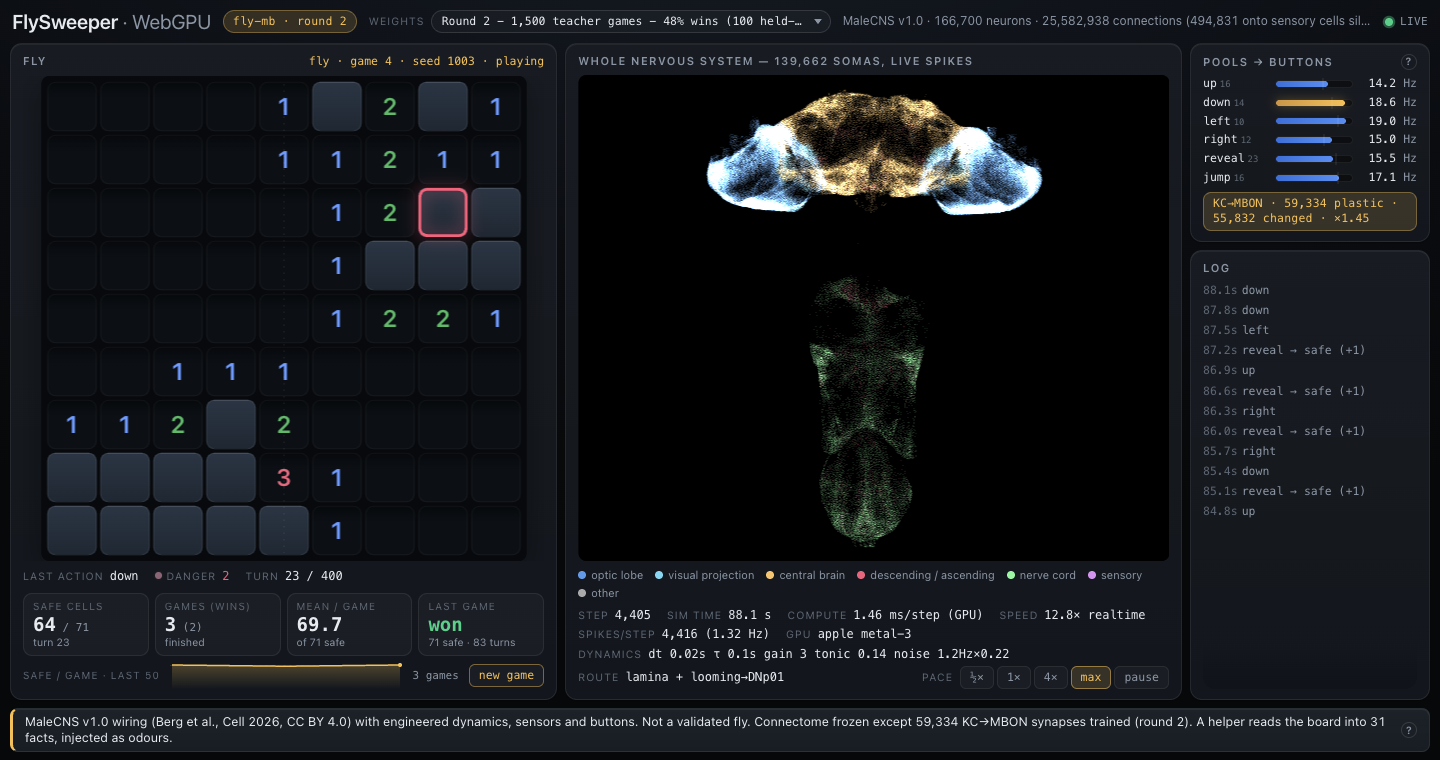
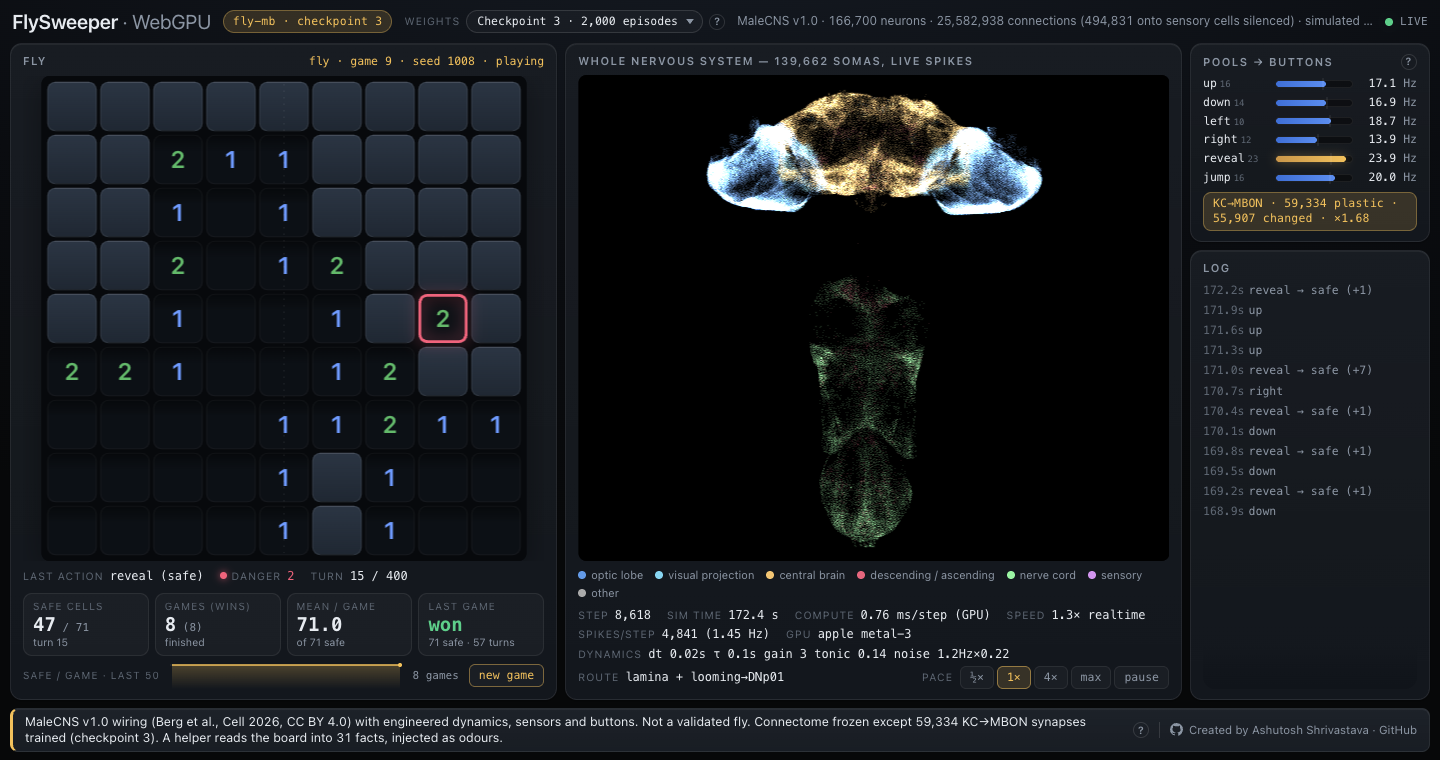
README: real checkpoint-3 screenshot (8/8 wins), checkpoint wording for the selector

diff --git a/README.md b/README.md
@@ -29,8 +29,9 @@ and the mushroom body learns which of six actions each set of facts calls for.
   in two commands (see [Quickstart](#quickstart)) — [`web/`](web/)
   ([how it works and how it was verified](web/README.md)). Needs Chrome 113+ or Edge (WebGPU on
   by default); loads 205 MB of wiring once, then cached. The trained weight sets ship with the page
-  (`web/weights/`) and a **weights** selector in the header switches between round 1, round 2 and
-  round 3 — **round 3 is the default**; `?weights=frozen` runs the untrained connectome. A session
+  (`web/weights/`) and a **weights** selector in the header switches between checkpoint 1, 2 and 3
+  ("Checkpoint k · N episodes") — **checkpoint 3 (2,000 episodes) is the default**; the untrained
+  baseline is not in the menu, `?weights=frozen` runs it. A session
   is 100 finished games; the simulation then stops behind a summary card with a **Restart session**
   button (`?games=N` changes the length). Hosting it publicly is optional and covered in
   [`docs/deploy.md`](docs/deploy.md).
@@ -38,9 +39,9 @@ and the mushroom body learns which of six actions each set of facts calls for.
   `http://127.0.0.1:8765/` where the trained fly plays forever and every spike of the 139,662
   plotted somas is drawn.
 
-| WebGPU page, trained fly (`fly-mb`, round-2 weights selected; 2 wins in 3 games) | WebGPU page, frozen fly |
+| WebGPU page, trained fly (`fly-mb`, checkpoint 3 · 2,000 episodes; 8 wins in 8 games, mean 71.0 safe cells) | WebGPU page, frozen fly |
 |---|---|
-| ![WebGPU page: the trained mushroom-body policy mid-game, KC→MBON plasticity chip visible](docs/img/flysweeper-web-trained.png) | ![WebGPU page: the frozen connectome, same layout](docs/img/flysweeper-web-classy.png) |
+| ![WebGPU page: checkpoint 3 (2,000 episodes) of the trained mushroom-body policy mid-game, scoreboard 8 games (8 wins), KC→MBON plasticity chip visible](docs/img/flysweeper-web-trained.png) | ![WebGPU page: the frozen connectome, same layout](docs/img/flysweeper-web-classy.png) |
 | **Python spectator, frozen fly** | **A lost game** (Python spectator; mines burst, cursor ring turns red) |
 | ![Python spectator: the frozen connectome mid-game, brain map and pool bars](docs/img/flysweeper-py-classy.png) | ![Python spectator: a lost game with all mines shown](docs/img/flysweeper-lost.png) |
 
@@ -202,8 +203,9 @@ Browser version, also local (needs step 2; Chrome 113+ or Edge):
 open http://127.0.0.1:8780/                                              # ?speed=0 for max, ?human=1 to play the same mines
 ```
 
-The page opens with the round-3 weights; the **weights** selector in the header switches to round 2,
-round 1 or the frozen connectome (`?weights=round2|round1|frozen`). After 100 finished games the
+The page opens with checkpoint 3; the **weights** selector in the header switches to checkpoint 2 or
+checkpoint 1 (`?weights=round3|round2|round1`; the file ids keep the training-round names). The
+untrained frozen connectome is not in the menu — `?weights=frozen` runs it. After 100 finished games the
 simulation stops behind a summary card — **Restart session** starts over with a fresh brain
 (`?games=N` for a different session length, `?games=0` to run forever). Putting the page on a
 public host (Vercel / GitHub Pages, with the 205 MB of wiring on a CORS-enabled bucket) is optional
